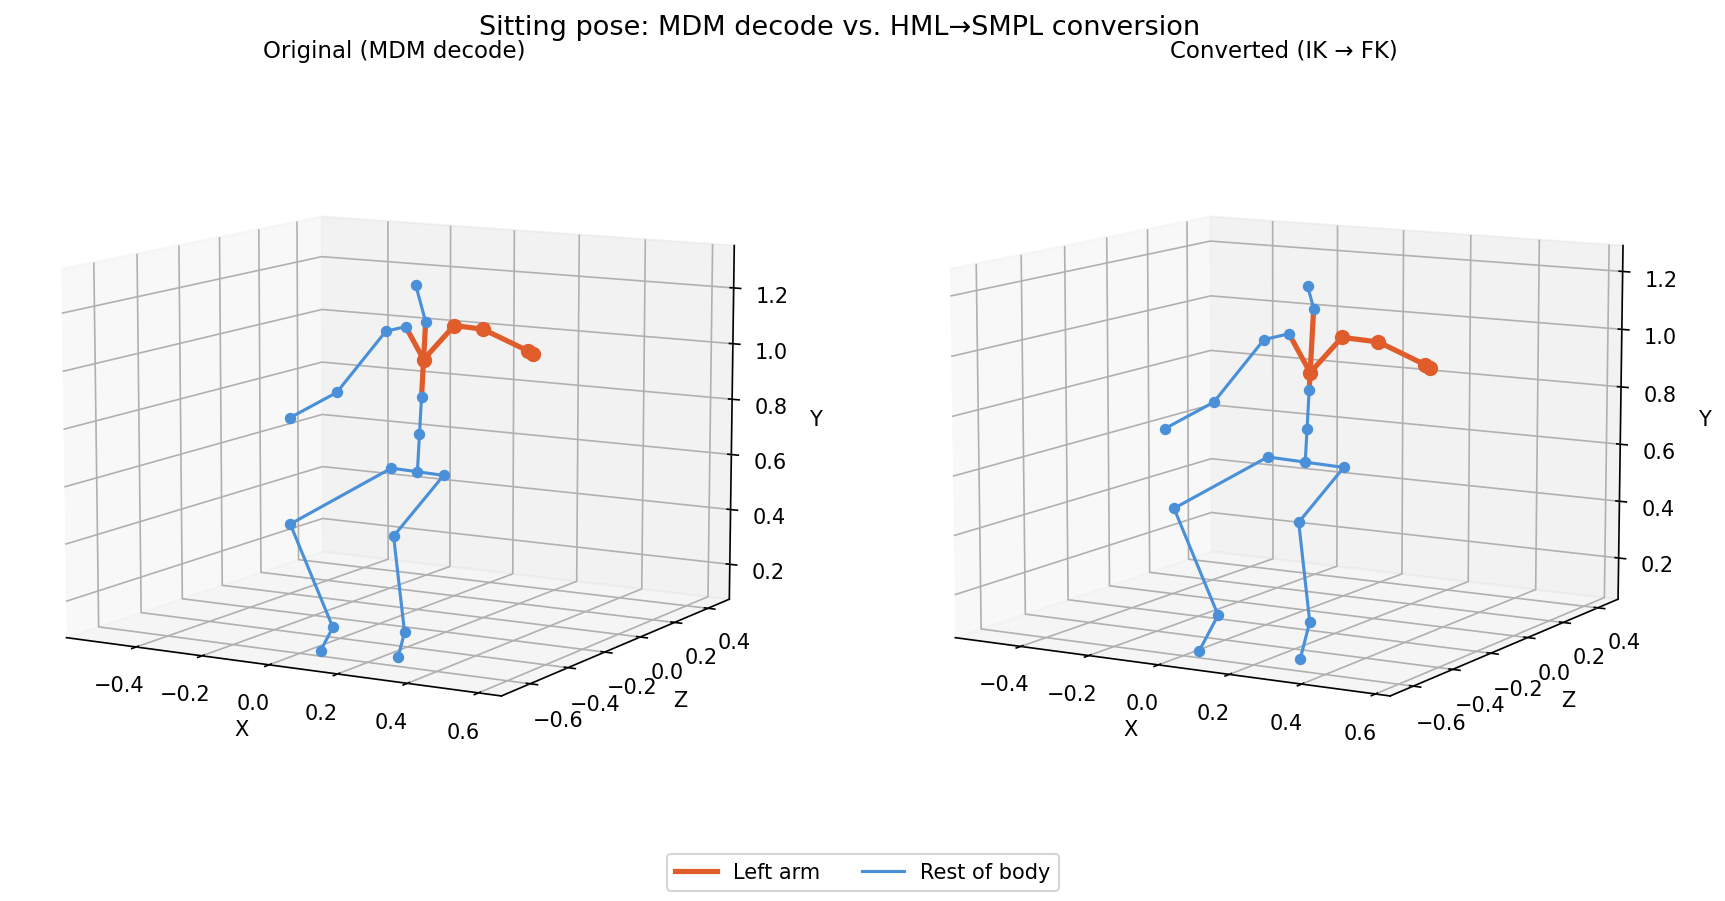
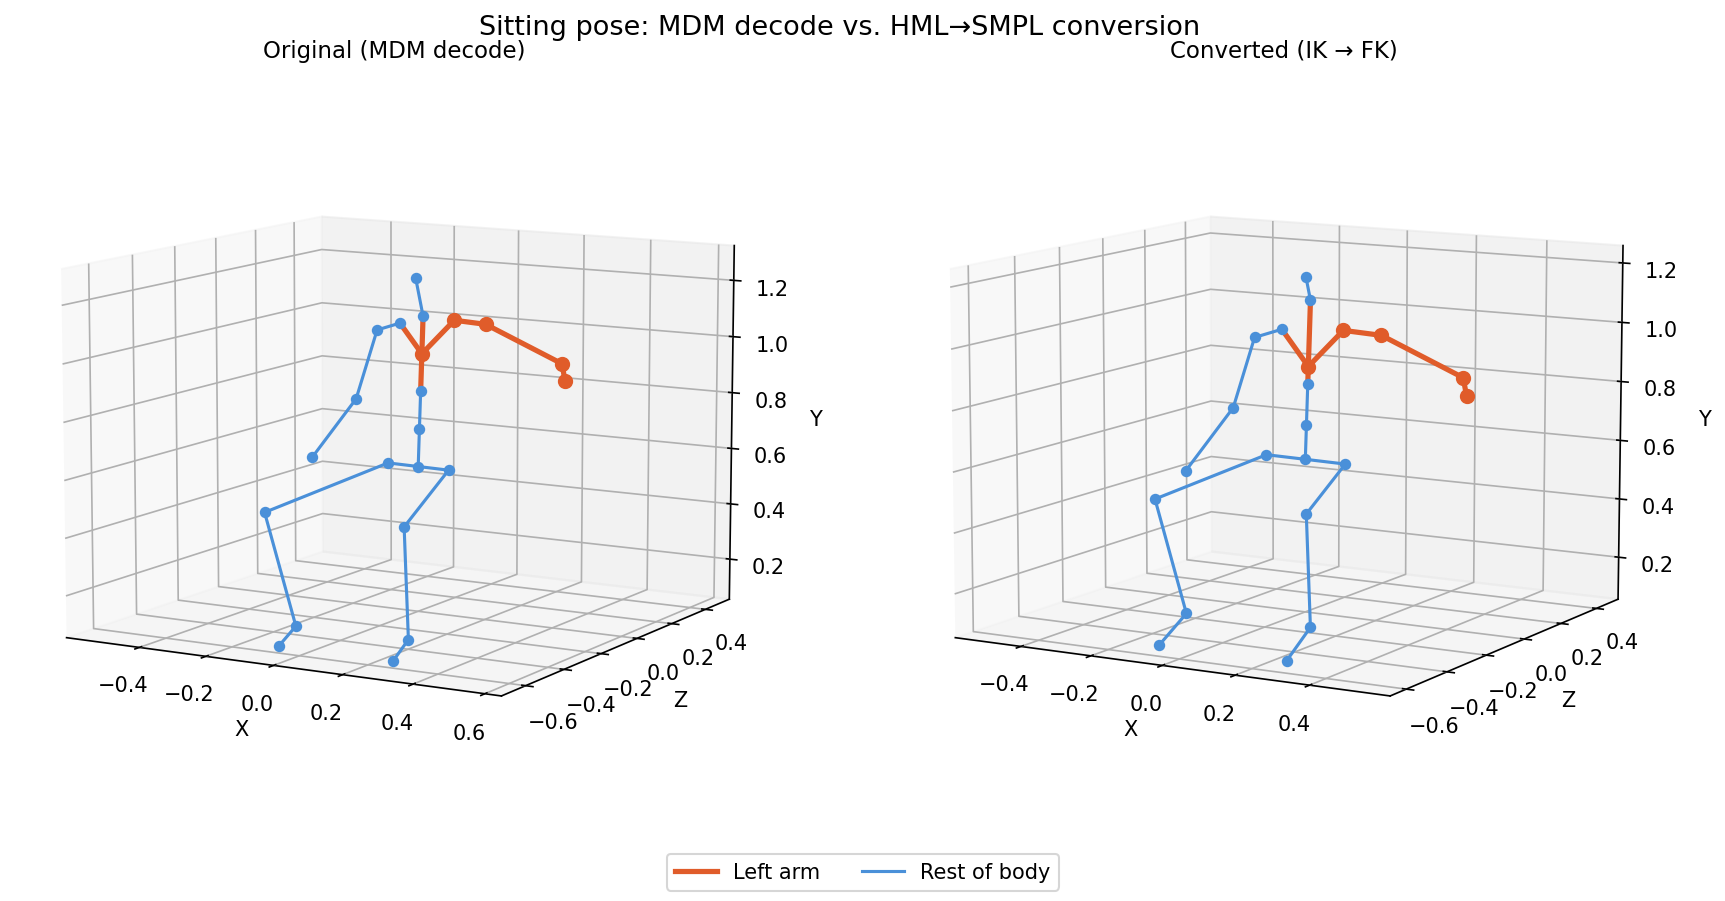
wip

diff --git a/src/uncertain_feedback/motion_generators/mdm/make_initial_pose.py b/src/uncertain_feedback/motion_generators/mdm/make_initial_pose.py
@@ -15,17 +15,17 @@ import torch
 
 HERE = Path(__file__).resolve().parent
 DATASET_DIR = HERE / "motion-diffusion-model" / "dataset" / "HumanML3D"
-OUTPUT_PATH = HERE / "demo_pose.pt"
+OUTPUT_PATH = HERE / "demo_pose_end2.pt"
 
 # Load the first training trajectory (shape: N x 263, raw HML263)
-npy_path = DATASET_DIR / "new_joint_vecs" / "000001.npy"
+npy_path = DATASET_DIR / "new_joint_vecs" / "000499.npy"
 data = np.load(npy_path)  # (N, 263)
 print(f"Loaded {npy_path}  shape={data.shape}")
 
 # MDM expects normalized vectors as model input. Convert raw frame to normalized.
 mean = np.load(DATASET_DIR / "Mean.npy").astype(np.float32)  # (263,)
 std = np.load(DATASET_DIR / "Std.npy").astype(np.float32)  # (263,)
-first_frame_raw = data[0].astype(np.float32)  # (263,)
+first_frame_raw = data[-1].astype(np.float32)  # (263,)
 first_frame_norm = (first_frame_raw - mean) / (std + 1e-8)  # (263,)
 
 # Reshape to (263, 1) as expected by sample_leftarm.py

diff --git a/src/uncertain_feedback/motion_generators/mdm/sample_leftarm.py b/src/uncertain_feedback/motion_generators/mdm/sample_leftarm.py
@@ -138,7 +138,7 @@ def main():
     input_motions = torch.zeros(args.num_samples, 263, 1, n_frames, device="cuda")
     # TODO: start the guy in a sitting position
     # TODO: generate the starting position by calling the model!!
-    sitting_pose_path = MDM_ROOT / "demo_pose.pt"
+    sitting_pose_path = MDM_ROOT / "demo_pose2.pt"
     sitting_pose = torch.load(sitting_pose_path, map_location="cuda")  # (263, 1)
     input_motions = (
         sitting_pose.unsqueeze(0).unsqueeze(-1).repeat(args.num_samples, 1, 1, n_frames)
@@ -199,7 +199,7 @@ def main():
     # Pin the first N_PREFIX frames to the demo pose.
     # With only 1 frame the model immediately diverges to its prior (standing).
     # A longer prefix forces the model to stay near the initial pose before transitioning.
-    N_PREFIX = 10
+    N_PREFIX = 1
     model_kwargs["y"]["inpainting_mask"][..., :N_PREFIX] = True
 
     ####

diff --git a/src/uncertain_feedback/data_collection/labeler.py b/src/uncertain_feedback/data_collection/labeler.py
@@ -9,9 +9,9 @@ then start this server against that directory::
 
     uv run python src/uncertain_feedback/data_collection/labeler.py \\
         --frames_dir ./frames/ \\
-        [--port 5000]
+        [--port 6767]
 
-Then open http://localhost:5000 (SSH-tunnel: ``ssh -L 5000:localhost:5000 user@host``).
+Then open http://localhost:6767 (SSH-tunnel: ``ssh -L 6767:localhost:6767 user@host``).
 Labels are persisted to ``<frames_dir>/labels.json``.
 
 labels.json format::
@@ -433,7 +433,7 @@ def main() -> None:
         help="Directory of per-clip frame subdirectories (output of extract_all_frames.py).",
     )
     parser.add_argument(
-        "--port", type=int, default=5000, help="Port to serve on (default: 5000)."
+        "--port", type=int, default=6767, help="Port to serve on (default: 6767)."
     )
     args = parser.parse_args()
 

diff --git a/src/uncertain_feedback/data_collection/video_to_frames.py b/src/uncertain_feedback/data_collection/video_to_frames.py
@@ -81,7 +81,8 @@ def extract_frames(  # pylint: disable=too-many-locals
         if segment_idx % stride == 0:
             written += 1
             out_path = output_dir / f"frame_{written:06d}.{ext}"
-            cv2.imwrite(str(out_path), cv2.flip(frame, -1))  # pylint: disable=no-member
+            # cv2.imwrite(str(out_path), cv2.flip(frame, -1))  # pylint: disable=no-member
+            cv2.imwrite(str(out_path), frame.copy())
         segment_idx += 1
 
     cap.release()

diff --git a/src/uncertain_feedback/data_collection/build_mdm_dataset.py b/src/uncertain_feedback/data_collection/build_mdm_dataset.py
@@ -75,8 +75,8 @@ def _write_text_file(path: Path, captions: list[str], nlp: Language) -> None:
 # Motion resampling helper
 # ---------------------------------------------------------------------------
 
-_MDM_MIN_FRAMES = 45
-_MDM_MAX_FRAMES = 195
+_MDM_MIN_FRAMES = 50
+_MDM_MAX_FRAMES = 190
 
 
 def _resample_hml263(hml263: np.ndarray) -> tuple[np.ndarray, bool]:

diff --git a/src/uncertain_feedback/motion_generators/mdm/visualize_sitting_pose.py b/src/uncertain_feedback/motion_generators/mdm/visualize_sitting_pose.py
@@ -240,7 +240,7 @@ def main() -> None:
 
     plt.tight_layout(rect=(0, 0.05, 1, 1))
 
-    out_path = Path(__file__).resolve().parent / "sitting_pose_comparison.png"
+    out_path = Path(__file__).resolve().parent / "demo_pose.png"
     plt.savefig(out_path, dpi=150, bbox_inches="tight")
     print(f"Saved to {out_path}")
     plt.show()

diff --git a/README.md b/README.md
@@ -56,24 +56,29 @@ uv run python src/uncertain_feedback/data_collection/build_mdm_dataset.py \
 --noise_std 0.05
 ```
 
-The output directory will be ready to pass to MDM's training script with `--dataset humanml --data_dir ./my_mdm_dataset/.`
-
 4. Fine-tune motion-diffusion-model
 First rename the original `src/uncertain_feedback/motion_generators/mdm/motion-diffusion-model/dataset/HumanML3D` to something else, and rename your new generated `.../HumanML3Dnew` to `.../HumanML3D`
+
+!!!!! run this before retraining to clear cache
+```
+rm -f src/uncertain_feedback/motion_generators/mdm/motion-diffusion-model/dataset/t2m_train.npy \
+src/uncertain_feedback/motion_generators/mdm/motion-diffusion-model/dataset/t2m_val.npy \
+src/uncertain_feedback/motion_generators/mdm/motion-diffusion-model/dataset/t2m_test.npy
+```
 
 Then,
 ```
 cd src/uncertain_feedback/motion_generators/mdm/motion-diffusion-model/
 
 uv run python -m train.train_mdm \
-    --save_dir ./save/my_finetuned2 \
+    --save_dir ./save/my_finetuned13 \
     --dataset humanml \
     --resume_checkpoint ./save/humanml_enc_512_50steps/model000750000.pt \
     --diffusion_steps 50 \
     --mask_frames \
     --use_ema \
     --batch_size 1 \
-    --num_steps 10000
+    --num_steps 1000
 ```
 
 5. Run motion generation with the new model
@@ -81,7 +86,7 @@ uv run python -m train.train_mdm \
 cd src/uncertain_feedback/motion_generators/mdm/
 
 uv run python sample_leftarm.py \
---model_path save/my_finetuned/model000760003.pt \
+--model_path save/my_finetuned12/model000751201.pt \
 --text_condition "raise my arm a little bit" \
 --num_samples 1 \
 --num_repetitions 1 \
@@ -90,7 +95,10 @@ uv run python sample_leftarm.py \
 (1s is 20 frames)
 
 src/uncertain_feedback/motion_generators/mdm/motion-diffusion-model/save/my_finetuned3/model000750502.pt
+
+src/uncertain_feedback/motion_generators/mdm/motion-diffusion-model/save/my_finetuned12/model000751201.pt
 ```
+
 
 ## Thanks
 This repository is based on [python-starter](https://github.com/tomsilver/python-starter), which is a general starter repository (not limited to research project code).
